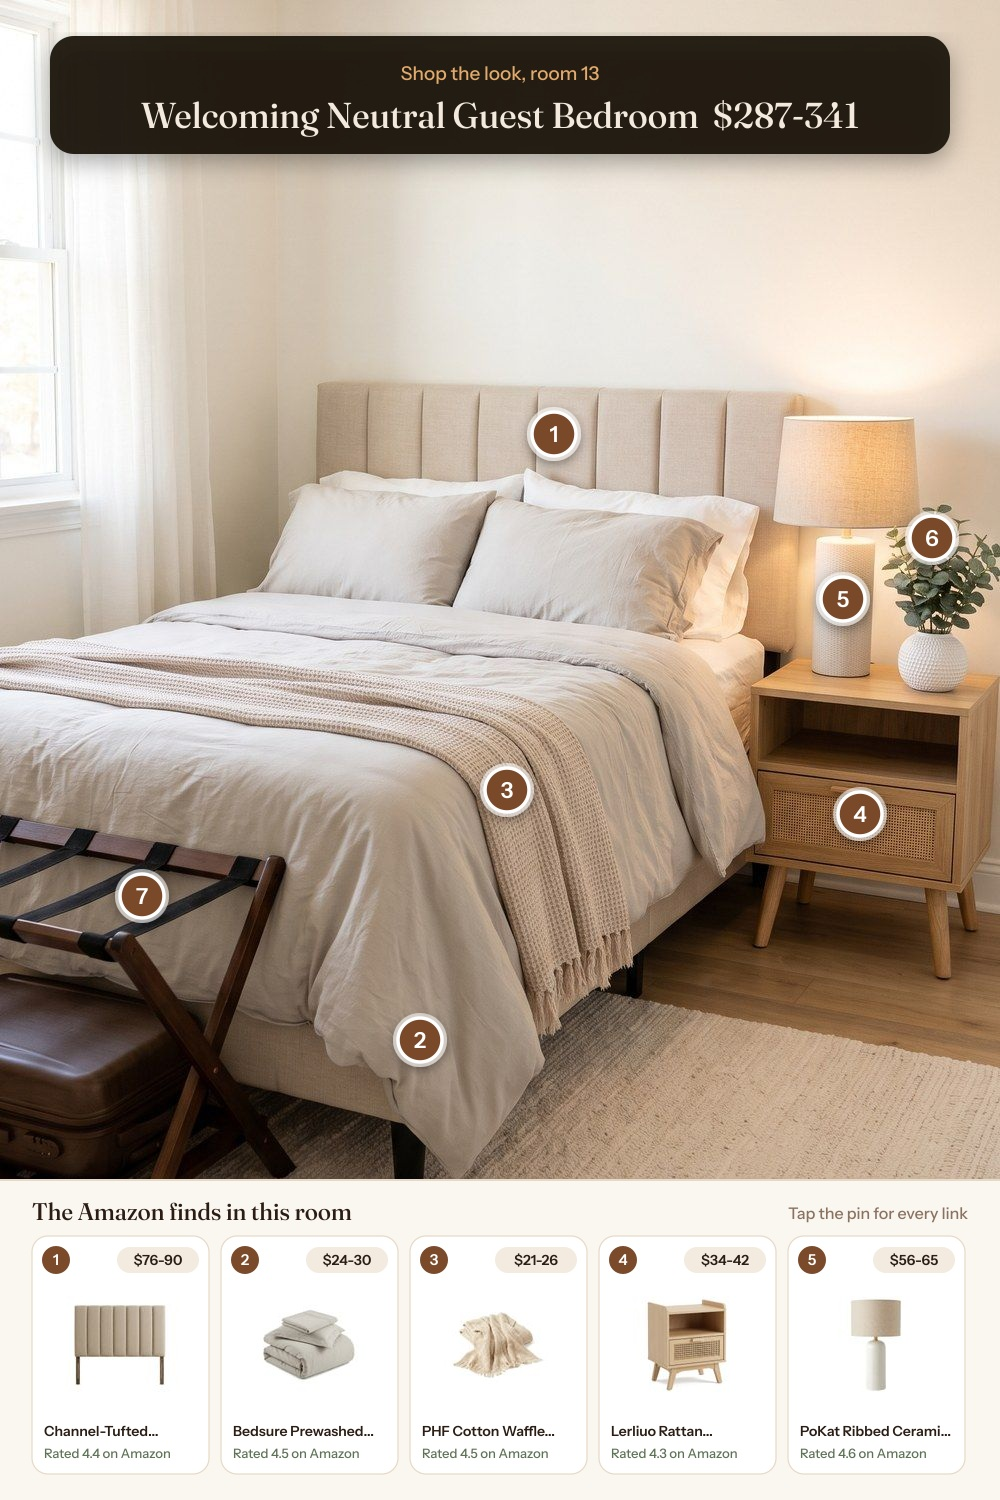
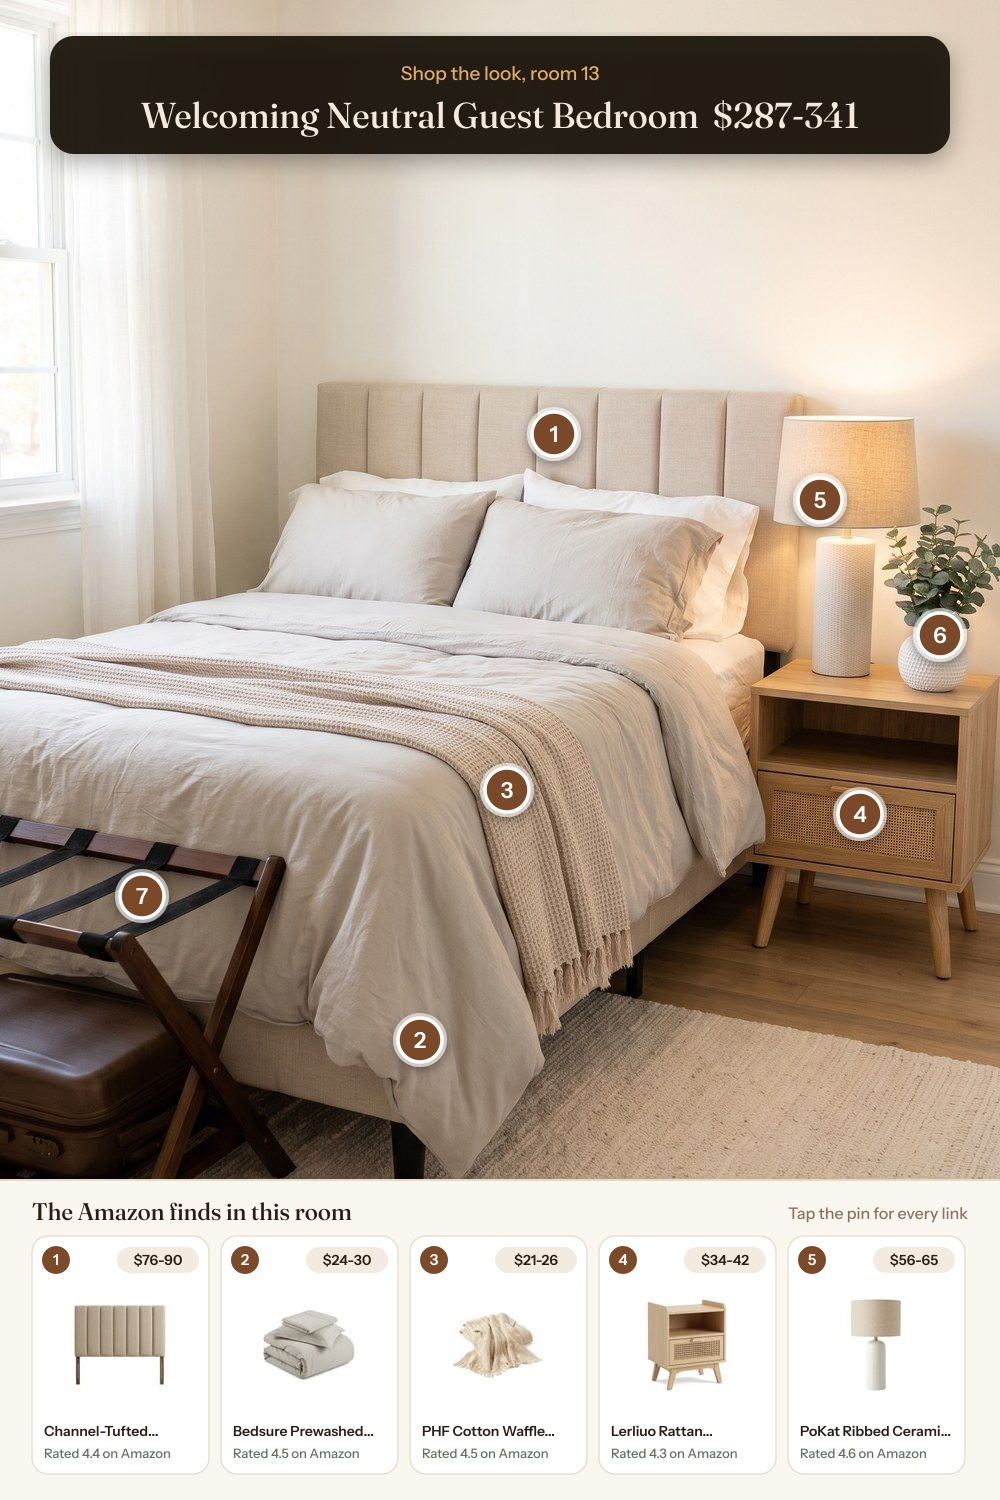
Room hotspots: move overlapping dots apart (rooms 1, 4, 5, 12, 13), hover shows the name, audit warns on overlaps

Changed region(s): [[0.775, 0.3067, 0.868, 0.4293], [0.899, 0.3373, 0.992, 0.46]]

diff --git a/src/components/RoomHotspots.tsx b/src/components/RoomHotspots.tsx
@@ -34,7 +34,7 @@ export function RoomHotspots({ products }: { products: Product[] }) {
             aria-expanded={open === p.number}
             aria-controls="hotspot-card"
             style={{ left: `${p.hotspot.x}%`, top: `${p.hotspot.y}%`, pointerEvents: "auto" }}
-            className="group/hs absolute -translate-x-1/2 -translate-y-1/2"
+            className="group/hs absolute -translate-x-1/2 -translate-y-1/2 hover:z-20 focus-visible:z-20"
           >
             {open === null && <span className="absolute inset-0 rounded-full bg-white/70 animate-ping opacity-50 motion-reduce:hidden" />}
             <span
@@ -44,6 +44,12 @@ export function RoomHotspots({ products }: { products: Product[] }) {
             >
               {p.number}
             </span>
+            {/* Mouse hover: just the product name. Touch screens skip this and open the card on tap. */}
+            {open !== p.number && (
+              <span className="pointer-events-none absolute left-1/2 bottom-full mb-2 -translate-x-1/2 hidden pointer-fine:block opacity-0 group-hover/hs:opacity-100 transition-opacity whitespace-nowrap max-w-[16rem] truncate rounded-lg bg-surface/95 backdrop-blur px-3 py-1.5 text-xs font-semibold text-ink shadow-lg ring-1 ring-line">
+                {p.name}
+              </span>
+            )}
           </a>
         ) : null
       )}

diff --git a/scripts/audit_storefront.py b/scripts/audit_storefront.py
@@ -309,6 +309,14 @@ def main() -> int:
                 warnings.append(f"Room #{room_num} #{p['number']} has no hotspot")
             elif not (0 <= hs.get("x", -1) <= 100 and 0 <= hs.get("y", -1) <= 100):
                 critical_issues.append(f"Room #{room_num} #{p['number']} hotspot outside the photo")
+        # Dots are 36px on a phone (photo ~343x515px): centres closer than 42px overlap and are hard to tap
+        placed = [p for p in products if p.get("hotspot")]
+        for a in range(len(placed)):
+            for b in range(a + 1, len(placed)):
+                pa, pb = placed[a]["hotspot"], placed[b]["hotspot"]
+                dist = (((pa["x"] - pb["x"]) * 3.43) ** 2 + ((pa["y"] - pb["y"]) * 5.15) ** 2) ** 0.5
+                if dist < 42:
+                    warnings.append(f"Room #{room_num} hotspots #{placed[a]['number']} and #{placed[b]['number']} overlap on phones ({dist:.0f}px apart)")
 
         room_reports.append(
             {
